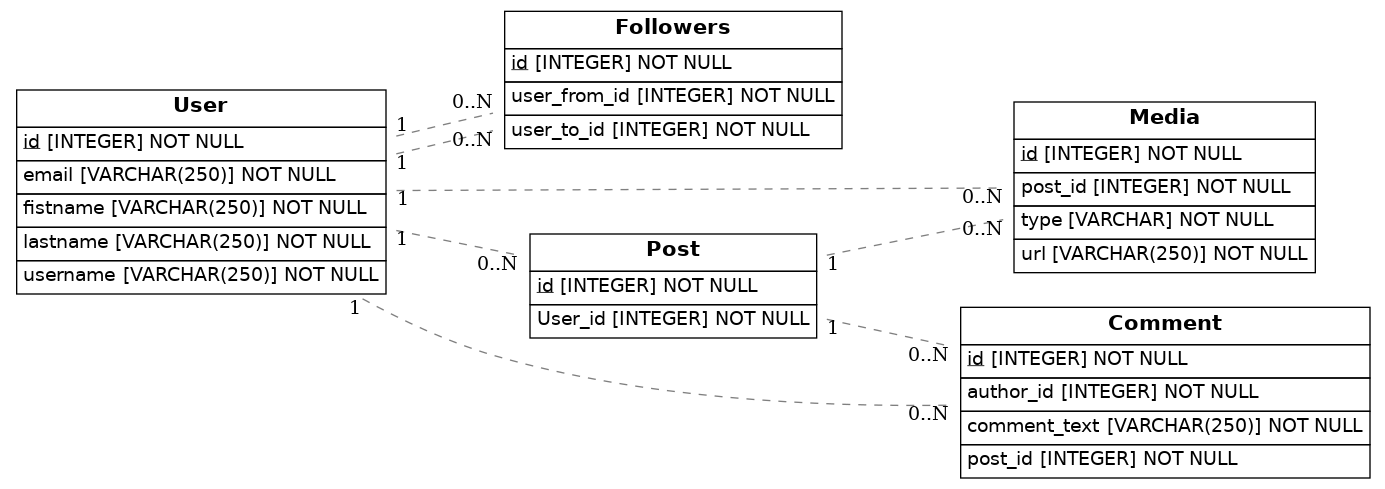
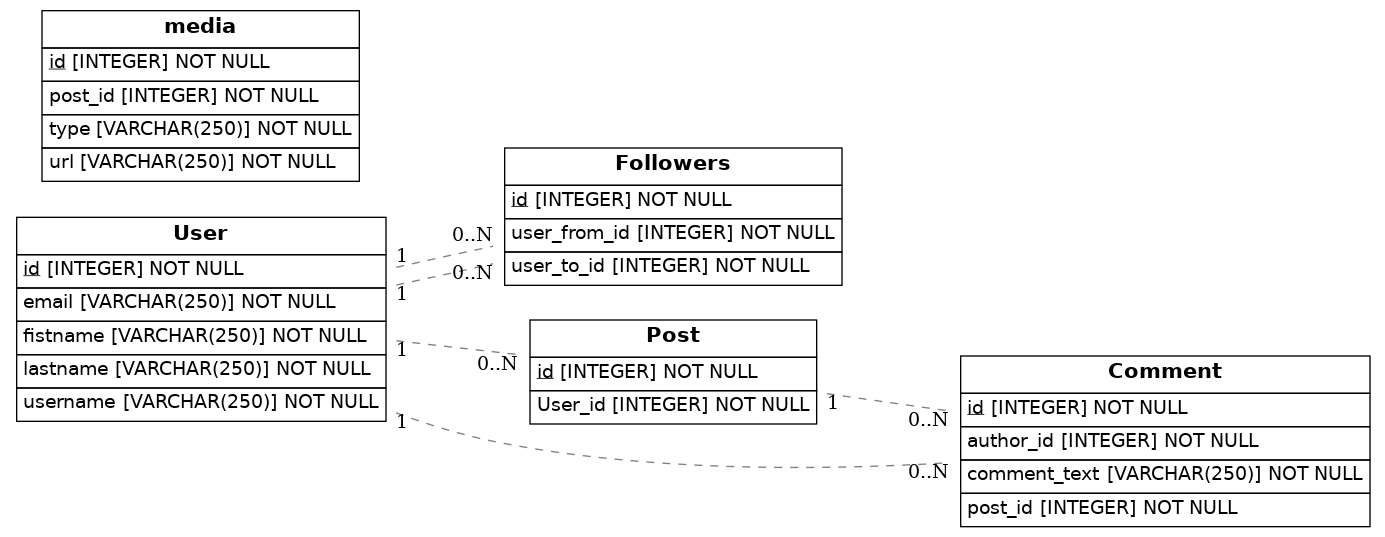
mejoras

diff --git a/src/models.py b/src/models.py
@@ -1,9 +1,15 @@
 import os
 import sys
-from sqlalchemy import Column, ForeignKey, Integer, String, Enum
+from sqlalchemy import Column, ForeignKey, Integer, String
 from sqlalchemy.orm import relationship, declarative_base
 from sqlalchemy import create_engine
 from eralchemy2 import render_er
+
+
+
+from flask import Flask
+from flask_sqlalchemy import SQLAlchemy
+from sqlalchemy.orm import DeclarativeBase
 
 Base = declarative_base()
 
@@ -22,13 +28,6 @@ class Followers(Base):
     id = Column(Integer, primary_key=True)
     user_from_id = Column(Integer, ForeignKey('User.id'), nullable=False)
     user_to_id = Column(Integer, ForeignKey('User.id'), nullable=False)
-    
-class Media(Base):
-    __tablename__ = 'Media'
-    id = Column(Integer, primary_key=True)
-    type = Column(Enum, nullable=False)
-    url = Column (String(250), ForeignKey('User.id'), nullable=(False))
-    post_id = Column(Integer, ForeignKey('Post.id'), nullable=(False))
 
 class Post(Base):
     __tablename__ = 'Post'
@@ -45,6 +44,13 @@ class Comment(Base):
     comment_text = Column(String(250), nullable=False)
     author_id = Column(Integer, ForeignKey('User.id'), nullable=False)
     post_id = Column(Integer, ForeignKey('Post.id'), nullable=False)
+
+class Media(Base):
+    __tablename__ = "media"
+    id = Column(Integer, primary_key=True)
+    type = Column(String(250), nullable=False)
+    url = Column(String(250), nullable=False)
+    post_id = Column(Integer, ForeignKey("post_id"), nullable=False)
 
     def to_dict(self):
         return {}
